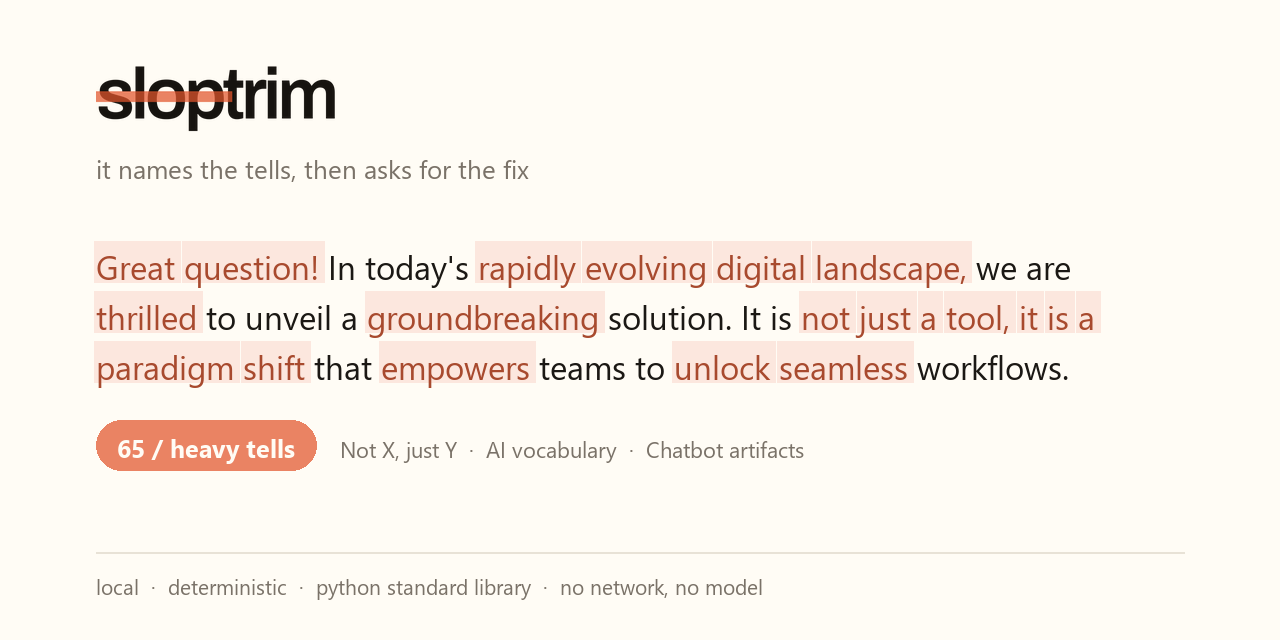
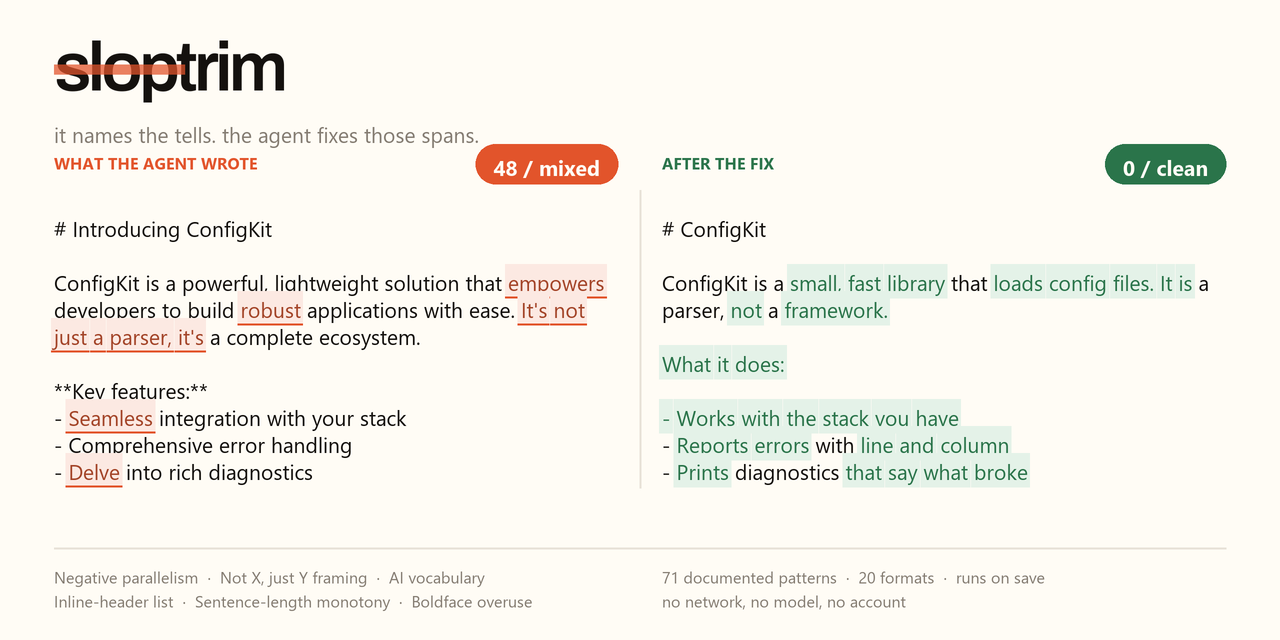
state plainly that there is no hosted version
The tool is a CLI and a plugin. Nothing is uploaded and there is no account, so a
reader who finds a web service under this name should know it is not this.

diff --git a/README.md b/README.md
@@ -20,6 +20,10 @@ Python standard library only, no network, no model. Prose only, never code.
 
 [Install](#install) &middot; [What it does](#what-it-does) &middot; [Measured](#measured) &middot; [Limits](#what-it-cannot-do) &middot; [Patterns](references/patterns.md) &middot; [Ethics](ETHICS.md)
 
+<sub>This is a command-line tool and an agent plugin. There is no website, no hosted
+version and no account, and nothing you write is ever uploaded. Any site offering a
+service under this name is unrelated to it.</sub>
+
 </div>
 
 <picture>
